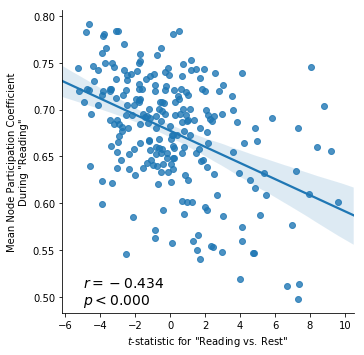
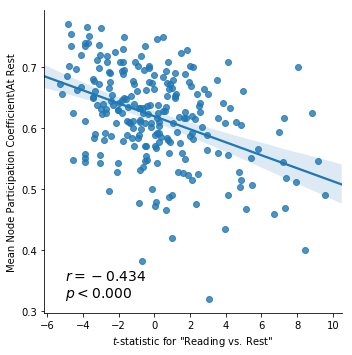
update ch3

diff --git a/chapters/ch3.tex b/chapters/ch3.tex
@@ -152,7 +152,7 @@ Specific relationships between RSNs are made apparent when comparing when examin
 	\label{fig:ch3-comprehension-reorganization}
 \end{figure}
 
-Decreases in modularity are coupled by increases in the participation of specific nodes. To address whether the areas that are activated during reading (in the traditional univariate sense) are also the areas driving integration, we correlated the two variables at the node level. Interestingly, we found that nodes that were more activated in reading tended to be those with lower participation coefficients ($r = -0.434$, $p < 0.001$). Nodes with high participation coefficients tended to be deactivated relative to rest, although a few of these hub-like areas were also activated. This effect can be seen in Figure \ref{fig:ch3-node-participation-to-activation}). 
+Decreases in modularity are coupled by increases in the participation of specific nodes. To address whether the areas that are activated during reading (in the traditional univariate sense) are also the areas driving integration, we correlated the two variables at the node level. Interestingly, we found that nodes that were more activated in reading tended to be those with lower participation coefficients ($r = -0.434$, $p < 0.001$). Nodes with high participation coefficients tended to be deactivated relative to rest, although a few of these hub-like areas were also activated. This effect can be seen in Figure \ref{fig:ch3-node-participation-to-activation}). One noteworthy hub area was the left posterior middle temporal gyrus (-56, -50, 10). It was the most hub-like area at rest (PC > 0.7) that was also activated during the task ($t$-stat = 8.1). 
 
 % Color the nodes by "activated vs inactivated"
 \begin{figure}[t]
@@ -176,23 +176,19 @@ Finally, we sought to replicate our previous finding relating resting-state modu
 \section{Discussion}
 
 % Restatement of purpose and results
-The current study sought to determine in what ways task-evoked functinoal network architecture during reading differs from that of rest and a simple attention task, and whether a less modular network while reading was predictive of better reading skill. As expected, we found that reading activated areas throughout the brain, and especially in the visual, ventral attention and default mode networks, and it increased measures of integration throughout the brain compared to rest and a simple visual task. We also found that the areas with high participation coefficients tended to be deactivated  and that decreases in modularity in the sensory, dorsal attention and default mode areas drove the global changes in modularity observed during reading. Finally, we found that the positive direction of the relationship between modularity and reading skill was unchanged at rest and in task.
-
-% Overall significance 
-Overall, the results suggest that the maintenance of an efficient network organization, i.e. one in which brain areas form clusters connected by hub regions, is important for skilled reading, even as between-network connectivity increases. To our knowledge, this is the first time the relationship between modularity and hubness to reading skill has been described during reading, adding to a foundation of work built on other connectivity methods, and it provides a secondary replication of the resting-state findings described in Study 1.
-
-% Distribution of activity among different RSNs
-One insight gained in this study is that much of the ``reading network'' falls in domain-general RSNs such as the attention and executive networks. While these areas perform a specific function in reading, they are also often involved in other processes. For example, the dorsal attention network encompasses the visual word form area, an area that has been the subject of much interest and debate in reading and dyslexia research \citep{McCandliss2003}. It is probable that this area is so important in reading not only because it is connected to language areas \citep{Bouhali2014}, but also because it is tightly tied to other areas that control goal-directed attention \citep{Vogel2014}. Koyama and colleagues found that children with a historical diagnosis of dyslexia had persistent de-coupling of the DAN compared to typical readers regardless of remediation status \citep{Koyama2013}. Vogel et al. found that reading ability in typical children and adults (including decoding and passage comprehension ability) predicted increased correlations between the visual word form area and the DAN \citep{Vogel2012a}. The nesting of this orthographic-processing area within the DAN is thus important to its role in reading.
+The primary purpose of the current study was to determine the ways in which task-evoked network architecture during reading differs from its baseline architecture, and whether changes in modularity are good predictors of better reading skill. As expected, we found that reading activated areas throughout the brain, especially in the visual, ventral attention and default mode networks. Reading also increased measures of integration throughout the brain compared to rest and a simple visual task. This integration was primarily driven by the de-clustering of sensory, dorsal attention and default RSNs, and global increases to the participation coefficients. Interestingly, we also found that hub areas -- those with the highest participation coefficients -- tended to be deactivated. Finally, we found that the positive direction of the relationship between modularity and reading skill was unchanged at rest and in task.
 
 % Emphasize system-vs-laterality approach
-One difference in this approach from traditional univariate analyses is the emphasis on system-level inference. Traditionally, there has been a major focus on laterality of function in language. However, our results ... Our findings show that in stronger readers, the left frontoparietal RSN is expanded to include portions of the right posterior middle and superior temporal cortex.  These regions may play a number of roles in more skilled readers.  First, these right hemisphere regions are homologues of important left hemisphere language areas. The left posterior superior and middle temporal gyri are major secondary processing areas for written and auditory word stimuli \citep{Price2012}. In the right hemisphere, these areas are understood to play a complementary role, with a sensitivity to both emotional and prosodic elements \citep{Jung-Beeman2005}. Thus, the expansion of the frontoparietal network to these homologues could represent greater ``recruitment'' of complimentary language areas, facilitating  the integration of language-related information.  Secondly, these right hemisphere areas are subregions of the generally bilateral ventral attention RSN \citep{Yeo2011}.  Nonetheless in task-based studies, this network shows more of a right-sided bias \citep{Fox2006}.  As such, good readers may be better at integrating visual information with more high-order information.  These explanations need not be mutually exclusive.
+One feature of the present connectomics approach is the disregard for laterality effects. There has traditionally been a major focus on laterality in reading and language \citep{Martin2015}. However, a systems-based approach aggregates across the RSN instead, providing a more comprehensive summary of the network's performance, but also making it less sensitive to task effects in processes that are strongly lateralized. However, there is much to be gained by prioritizing systems of the brain over sides. First, these right hemisphere regions are homologues of important left hemisphere language areas, and complement major processing areas such as the temporoparietal junction and angular gyrus \citep{Price2012, Jung-Beeman2005}. Secondly, the domain-general functions subserved by attention, executive and default networks are thought to be more global and less lateralized, so the broader scope is more appropriate when treating reading holistically (with less focus on decoding or semantics, for example) \citep{Yeo2011}.  
+
+% Distribution of activity among different RSNs
+One insight gained in this study is that much of the ``reading network'' falls predominantly in visual, default and ventral attention networks. The heavy engagement of ``unclassifiable'' border nodes is also indicative of the integrative nature of reading. While the visual and default mode networks are commonly discussed in reading comprehension as the seats of decoding and semantic processing, respectively, the attention networks have received less attention. The ventral attention network, which was the most comprehensively activated RSN in reading, plays a key role in integrating information from the environment, and regulating top-down attention. It has a push-pull relationship with the dorsal attention and salience networks, which can be seen in Figure \ref{ch3-reading-connectome-activations}. This relaitonship is important for reading: the dorsal attention network encompasses the visual word form area, which was the only activated DAN node and an area that has been the subject of much interest and debate in reading and dyslexia research \citep{McCandliss2003}. It is probable that this area is so important in reading not only because it is connected to language areas \citep{Bouhali2014}, but also because it is tightly tied to other areas that control goal-directed attention \citep{Vogel2014}. Vogel and colleagues found that reading ability in typical children and adults (including decoding and passage comprehension ability) predicted increased correlations between the visual word form area and the DAN \citep{Vogel2012a}. The nesting of this orthographic-processing area within the attention systems is further evidence of how fundamental global systems of attention are to the reading process.
 
 % Changes to global modularity, but no changes to reading correlation
-In terms of global network effects, we found that tasks reduced global measures of modularity and increasd measures of between-RSN communication, including participation coefficient and path length. Relative to rest, this was most apparent in the visual RSN, which was characterized by a massive decrease in modularity compared to rest. These findings support a model in which the modular architecture of the brain is highly maintained between tasks, and the maintenance of this modularity is important for cognitive skill. It is not yet possible to say whether modularity within these specific RSNs correlates most highly with reading because of their functional roles in reading processes or whether they simply capture global trends better than other networks. There is some reason to suspect specificity, however. In studies of remediation-induced changes to connectivity, increased connectivity within the visual network \citep{Koyama2013} and cingulo-opercular network \citep{HorowitzKraus2015} have predicted reading improvement in dyslexic children. 
+In terms of global network effects, we found that tasks reduced global measures of modularity and increased measures of between-RSN communication, including participation coefficient and path length. Relative to rest, this was most apparent in the visual RSN, which was characterized by a massive decrease in modularity compared to rest. These findings support a model in which the modular architecture of the brain is highly maintained between tasks, with global and some regional changes. It is not yet possible to say whether modularity within these specific RSNs correlates most highly with reading because of their functional roles in reading processes or whether they simply capture global trends better than other networks (because they are larger, for example). There is some reason to suspect specificity, however. In studies of remediation-induced changes to connectivity, increased connectivity within the visual network \citep{Koyama2013} and cingulo-opercular network \citep{HorowitzKraus2015} have predicted reading improvement in dyslexic children.
 
 % Participation coefficient
-It makes sense: the areas that are increasing in participation coefficients are on the ``periphery'' of each RSN - but they are present in roughly equal proportions across all RSNs.  
-It is perhaps surprising to see primarily global effects of condition on the participation coefficient. Other work has found that certain networks, such as the fronto-parietal network are responsible for task-switching \citep{Cole2013}. Previous research have also noted that brain regions that have been found to be abnormal in dyslexia localize on high-hub regions \citep{Bailey2018}. However, the literature on dyslexia may be insightful here: several of these regions, including the inferior frontal gyrus and inferior parietal lobule have been found to be both active in some studies and inactive in others. It is perhaps, then, an abnormality in the system rather than underactivation. The anti-correlation between task activity and participation coefficient highlights the complementary nature of network analysis with activation analyses. What it suggests is that ``hub'' regions have a primary role as connectors, whereas only in some cases are regions active and highly participatory. 
+Previous research have also noted that brain regions that have been found to be abnormal in dyslexia localize on high-hub regions \citep{Bailey2018}. It is perhaps surprising then to see primarily global effects of condition on the participation coefficient. However, this is consistent with the definition of the participation coefficient: the nodes that are increasing in participation coefficients are predominantly on the ``periphery'' of each RSN, but they are present in roughly equal proportions across all RSNs. Overall, however, we found that nodes with high participation coefficients tended not to be activated during reading, with a few exceptions such as the left posterior middle temporal gyrus. One explanation is that, in most cases, the nodes responsible for integrating information throughout the brain are not ``taxed'' in the same way that nodes performing specific computational processes are. The fronto-parietal network, for example, showed no RSN-level changes in activity, although it is known to play an important role in task-switching and coordinating neural systems \citep{Cole2013}. It is also possible that the frequency with which these hub areas are engaged varies, such that they do not ``activate'' in response to the stimuli but at other times. This anti-correlation between task activity and participation coefficient highlights the complementary nature of network analysis with activation analyses. 
 
-% Conclusions and next steps
-Taken together, these results suggest that the modular network architecture of the brain is relatively stable across task-evoked and resting states, lending further credence to assertions that it measures an intrinsic property. One major limitation of the present approach is that effects were measured at a global level using the resting-network parcellation. While this allows for reproducibility and an interpretable RSN ``rewiring'' framework, it cannot capture or describe the presence of new communities. It is also unable to compare individuals against each other; it assumes a reference framework. Other analytical methods, such as investigating the number of shared connection between two connectomes may provide a more detailed insight into variability in task-evoked connectomes \citep{Petersen2016}. We will address this question of to what degree individual connectomes change across a wider variety of tasks in the next chapter.
+% Overall significance 
+Overall, the results suggest that the maintenance of an efficient network organization, i.e. one in which brain areas form clusters connected by hub regions, is important for skilled reading, even as between-network connectivity increases. To our knowledge, this is the first time the relationship between modularity and hubness to reading skill has been described during reading, adding to a foundation of work built on other connectivity methods. It also provides a replication of the resting-state findings described in Study 1. However, ane major limitation of the present approach is that effects were measured at a global level using the resting-network parcellation. While this allows for reproducibility and an interpretable RSN ``rewiring'' framework, it cannot capture or describe the presence of new communities \citep{Power2011}. Comparing the modularity or individual connections between conditions assumes a reference framework, but to what extent is flexibility in network connectivity important? Other analytical methods, such as investigating the number of shared connection between two connectomes may provide a more detailed insight into variability in task-evoked connectomes \citep{Petersen2016}. We will address this question of to what degree individual connectomes change across a wider variety of tasks in the next chapter.
